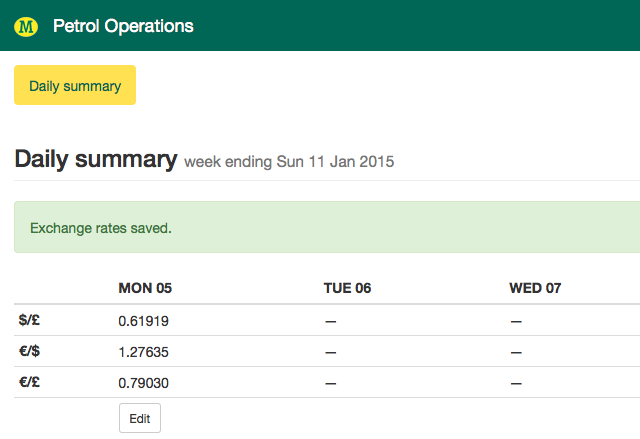
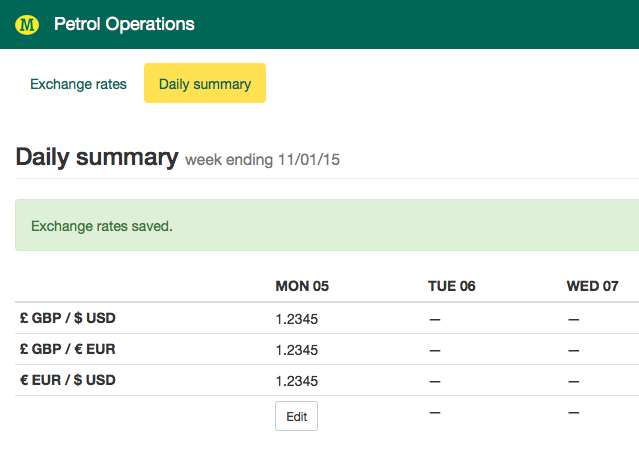
fx flag

diff --git a/market-daily-fx-flag.html b/market-daily-fx-flag.html
@@ -33,7 +33,9 @@
 			<div class="row">
 				<div class="col-xs-12">
 					<ul class="nav nav-pills">
-						<li class="active"><a href="">Daily summary</a></li>						
+						<li><a href="fx-daily.html">Exchange rates</a></li>	
+						<li class="active"><a href="market-daily-fx-edit.html">Daily summary</a></li>					
+										
 					</ul>
 				</div>
 			</div>	
@@ -41,15 +43,14 @@
 		<div class="container-fluid">
 			<div class="row">
 				<div class="col-xs-12 col-md-12 col-lg-12">
-					<h3 class="page-header">Daily summary <small>week ending 11/01/15</small></h3>
+					<h3 class="page-header">Daily summary <small>week ending 11/01/15</small></h3>					
 					<table class="table table-hover table-condensed">
 					  <thead><tr><th></th><th>MON 05</th><th>TUE 06</th><th>WED 07</th><th>THU 08</th><th>FRI 09</th><th>11/01/15</th></tr></thead>
 						<tbody>
-							<tr><th>&pound;/&dollar;</th><td>1.6153</td><td class="text-danger">1.6152</td><td>1.6153</td><td>1.6153</td><td>1.6153</td><td>1.6153</td></tr>
-							<tr><th>&pound;/&euro;</th><td>1.2654</td><td class="text-danger">1.2653</td><td>1.2654</td><td>1.2654</td><td>1.2654</td><td>1.2654</td></tr>
-							<tr><th>&euro;/&dollar;</th><td>1.2759</td><td>1.2759</td><td>1.2759</td><td>1.2759</td><td>1.2759</td><td>1.2759</td></tr>
-							<tr><td></td><td><a class="btn btn-default btn-sm" href="fx-added.html">Edit</button></td><td><a class="btn btn-default btn-sm" href="fx-added.html">Edit</button></td><td><a class="btn btn-default btn-sm" href="fx-added.html">Edit</button></td><td><a class="btn btn-default btn-sm" href="fx-added.html">Edit</button></td><td><a class="btn btn-default btn-sm" href="fx-added.html">Edit</button></td><td></td></tr>
-
+							<tr><th>&pound; GBP / &dollar; USD</th><td>1.2345</td><td class="text-danger">1.2344</td><td>&mdash;</td><td>&mdash;</td><td>&mdash;</td><td>&mdash;</td></tr>
+							<tr><th>&pound; GBP / &euro; EUR</th><td>1.2345</td><td class="text-danger">1.2335</td><td>&mdash;</td><td>&mdash;</td><td>&mdash;</td><td>&mdash;</td></tr>
+							<tr><th>&euro; EUR / &dollar; USD</th><td>1.2345</td><td class="text-danger">1.1345</td><td>&mdash;</td><td>&mdash;</td><td>&mdash;</td><td>&mdash;</td></tr>
+							<tr><td></td><td><a href="fx-daily-added.html"class="btn btn-default btn-sm">Edit</a></td><td><a href="fx-daily-added.html"class="btn btn-default btn-sm">Edit</a></td><td>&mdash;</td><td>&mdash;</td><td>&mdash;</td><td>&mdash;</td></tr>
 						</tbody>
 					</table>
 				</div>
